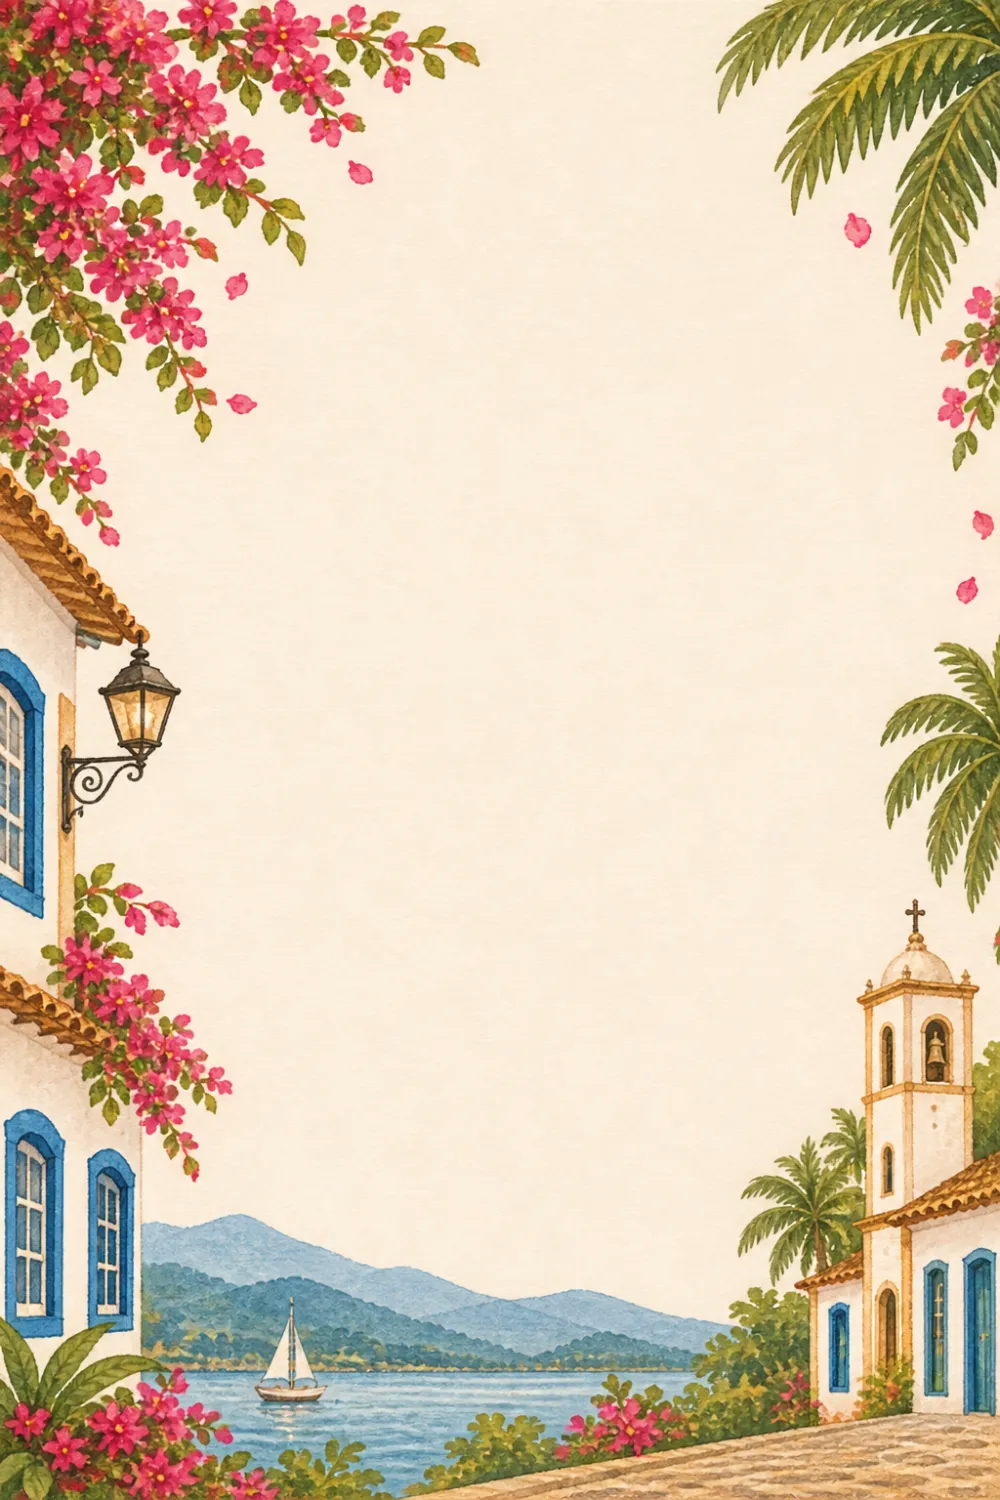
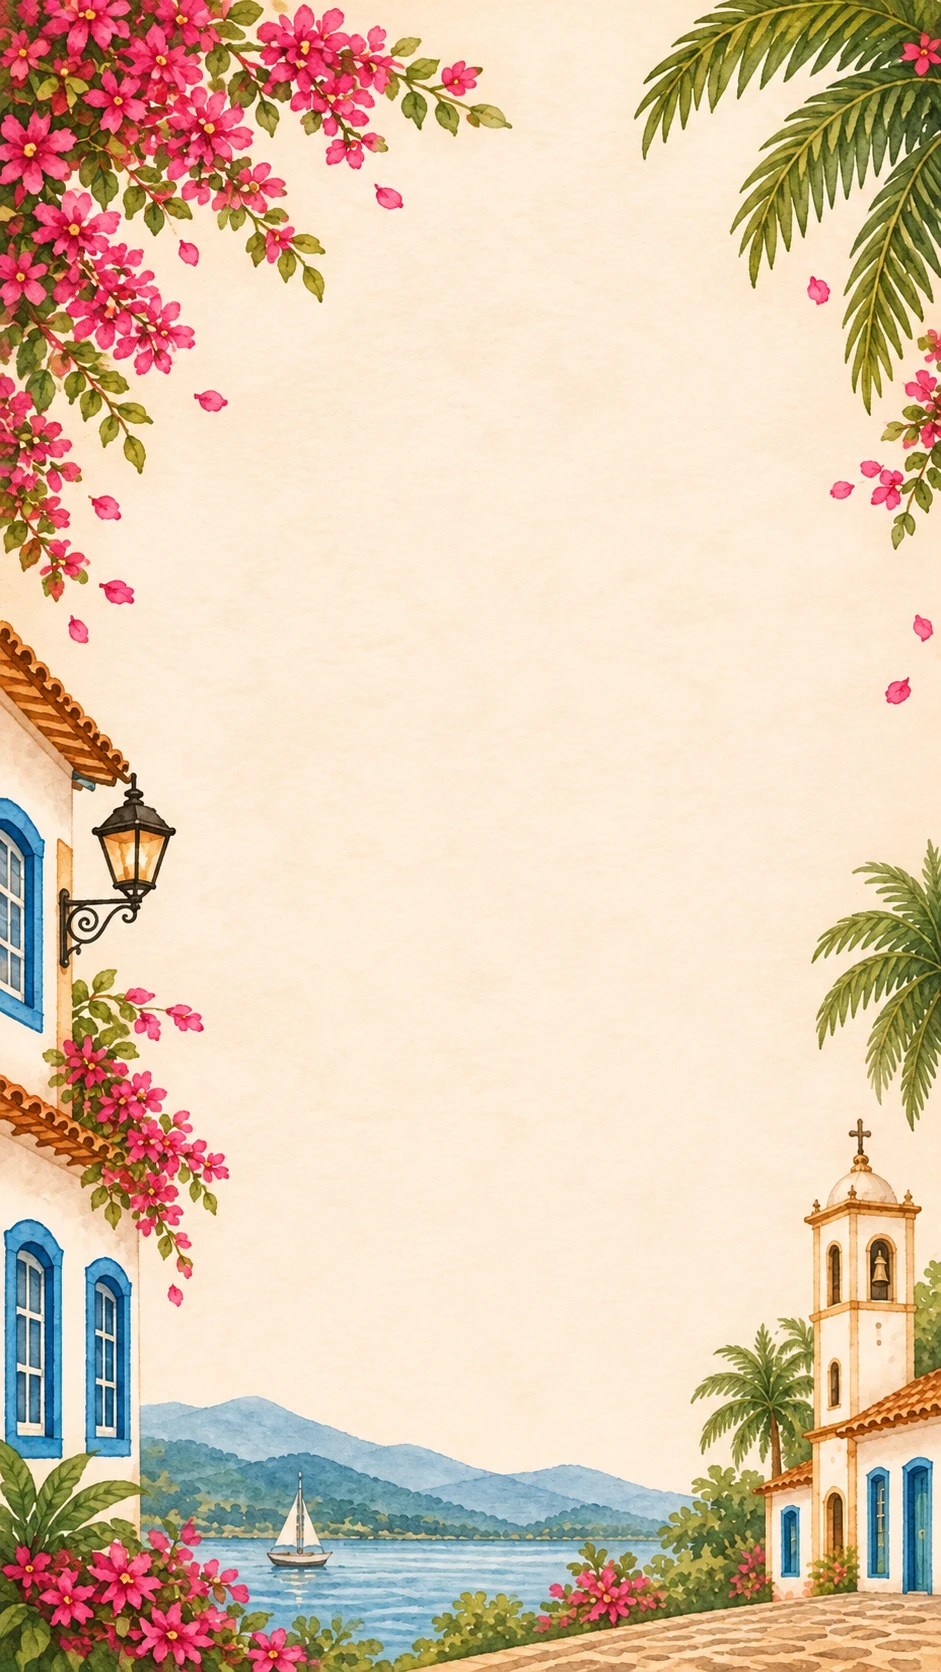
Moldura vertical em tela cheia e porta centralizada na entrada
A capa usa a moldura no formato de celular e cobre a tela (100dvh, como
object-fit: cover). Na entrada, o centro da porta fica no meio da tela; o
chão continua para baixo com as pedras da própria arte.

diff --git a/index.html b/index.html
@@ -94,7 +94,7 @@ h2::after{content:"";display:block;width:36px;height:3px;background:var(--ocre);
   --W:min(var(--vw) * 1.5396, var(--vh) * 1.7768);           /* largura da arte na tela */
   --H:calc(var(--W) / 1.7768);
   --x0:calc(var(--vw) / 2 - var(--W) * .5042);
-  --y0:calc(var(--vh) - var(--H) - min(var(--H) * .06, (var(--vh) - var(--H)) * .5)); /* sobra em cima vira parede; embaixo, no máximo uma faixa de chão */
+  --y0:calc(var(--vh) / 2 - var(--H) * .5229);           /* o centro da porta (52.29% da altura da arte) fica no meio da tela */
   --dl:calc(var(--x0) + var(--W) * .4270);
   --dt:calc(var(--y0) + var(--H) * .2062);
   --dw:calc(var(--W) * .1543);
@@ -118,11 +118,10 @@ h2::after{content:"";display:block;width:36px;height:3px;background:var(--ocre);
 .cena img{position:absolute;left:0;top:0;width:100%;height:100%;display:block}
 .cena .arte{-webkit-mask:linear-gradient(transparent,#000 4.5%);mask:linear-gradient(transparent,#000 4.5%)} /* topo se funde na parede lisa */
 /* chão continua para baixo (cópia espelhada, só a faixa do chão) */
-.cena .chao1{top:100%;transform:scaleY(-1)}
+.chao-ext{position:absolute;left:-100%;width:300%;top:100%;height:200vh;background:linear-gradient(rgba(240,188,122,0),rgba(240,188,122,.55) 45vh),url(arte/chao.webp) var(--W) 0/calc(var(--W) * .5024) auto} /* mais longe da porta, as pedras vão se dissolvendo */ /* chao.webp: as últimas linhas de pedra da arte, espelhadas para repetir sem emenda */
 /* telas muito largas: a arte continua para os lados espelhada; longe da emenda só o chão continua */
 .cena .esq1{left:-100%;transform:scaleX(-1)}
 .cena .dir1{left:100%;transform:scaleX(-1)}
-.chao1{-webkit-mask:linear-gradient(transparent 94%,#000 94.3%);mask:linear-gradient(transparent 94%,#000 94.3%)} /* só as últimas linhas: sem pé do vaso nem rabo do gato */
 .esq1{-webkit-mask:linear-gradient(to right,#000 14%,transparent 17%);mask:linear-gradient(to right,#000 14%,transparent 17%)}
 .dir1{-webkit-mask:linear-gradient(to left,#000 20%,transparent 24%);mask:linear-gradient(to left,#000 20%,transparent 24%)}
 .luz-chao{position:absolute;inset:0;clip-path:polygon(43% 84%,58% 84%,67% 100%,34% 100%);background:linear-gradient(rgba(255,228,160,.9),rgba(255,228,160,0) 90%);mix-blend-mode:screen;opacity:0;transition:opacity 1.3s .35s ease-out}
@@ -152,28 +151,28 @@ h2::after{content:"";display:block;width:36px;height:3px;background:var(--ocre);
 .placa::before{left:.42em}
 .placa::after{right:.42em}
 @media (orientation:portrait){
-  .placa{top:calc(var(--y0) * .72);font-size:clamp(18px,5.6vw,30px)}
+  .placa{top:calc(var(--y0) * .55);font-size:clamp(18px,5.6vw,30px)}
 }
 body.travado main{transform:translateY(var(--desloc,0px)) scale(1.12);transform-origin:50% var(--origem,55vh)} /* os nomes da capa ficam bem no vão da porta */
 body.travado.entrando main{transform:none;transition:transform 1.6s cubic-bezier(.6,0,.3,1)}
 
 /* ---------- capa: a moldura ---------- */
-/* Arte: arte/moldura.webp (1000x1500). Área livre no meio: x 24–86%, y 20–76%.
+/* Arte: arte/moldura.webp (941x1672, formato de celular). Área livre no meio: x 21–85%, y 18–82%.
    Galhos que balançam (posição e tamanho em % da arte): buganvília de cima à esquerda, palmeira de cima, palmeira do meio à direita.
    A arte de fundo tem um "buraco" suave onde fica cada galho, e o galho é uma cópia por cima que gira de leve. */
-.capa{--galhoA:radial-gradient(ellipse 33% 20% at 22% 8%,#000 55%,transparent);
-  --galhoB:radial-gradient(ellipse 30% 17% at 88% 9%,#000 55%,transparent);
-  --galhoC:radial-gradient(ellipse 14% 11% at 95% 51%,#000 55%,transparent);
-  position:relative;aspect-ratio:2/3;overflow:hidden;container-type:inline-size;background:#F7ECD9}
-.quadro{position:absolute;left:0;right:0;bottom:0;aspect-ratio:2/3}
-.quadro.reflexo{bottom:150cqw;transform:scaleY(-1)} /* cópia de cabeça para baixo logo acima: buganvília e palmeira continuam, e balançam juntas */
-@media (max-width:600px){.capa{aspect-ratio:auto;height:max(150vw,100vh);height:max(150vw,100svh)}} /* celular: a moldura ocupa a tela toda */
+.capa{--galhoA:radial-gradient(ellipse 35% 20% at 21% 12%,#000 55%,transparent);
+  --galhoB:radial-gradient(ellipse 32% 16% at 87% 11%,#000 55%,transparent);
+  --galhoC:radial-gradient(ellipse 15% 10% at 96% 59%,#000 55%,transparent);
+  position:relative;aspect-ratio:941/1672;overflow:hidden;container-type:inline-size;background:#F7ECD9}
+/* o quadro cobre a capa inteira (como object-fit: cover), sem distorcer; no celular a capa tem a altura da tela */
+.quadro{position:absolute;left:50%;top:50%;translate:-50% -50%;min-width:100%;min-height:100%;aspect-ratio:941/1672}
+@media (max-width:600px){.capa{aspect-ratio:auto;height:100vh;height:100dvh}}
 .camada{position:absolute;inset:0;background:url(arte/moldura.webp) 0 0/100% 100%}
 .camada.fundo{-webkit-mask:linear-gradient(#000 0 0),var(--galhoA),var(--galhoB),var(--galhoC);-webkit-mask-composite:source-out,source-over,source-over;
   mask:linear-gradient(#000 0 0),var(--galhoA),var(--galhoB),var(--galhoC);mask-composite:subtract,add,add}
 .galhoA{-webkit-mask:var(--galhoA);mask:var(--galhoA);transform-origin:0 0;--giro:.9deg;animation:balanco 6s ease-in-out infinite alternate}
 .galhoB{-webkit-mask:var(--galhoB);mask:var(--galhoB);transform-origin:100% 0;--giro:-1.1deg;animation:balanco 7s ease-in-out -2s infinite alternate}
-.galhoC{-webkit-mask:var(--galhoC);mask:var(--galhoC);transform-origin:100% 51%;--giro:2deg;animation:balanco 4.5s ease-in-out -1s infinite alternate}
+.galhoC{-webkit-mask:var(--galhoC);mask:var(--galhoC);transform-origin:100% 59%;--giro:2deg;animation:balanco 4.5s ease-in-out -1s infinite alternate}
 /* as animações da capa só começam depois de entrar pela porta (senão a porta abre travando) */
 body.travado :is(.camada,.petala){animation-play-state:paused}
 .galhoA,.galhoB,.galhoC{will-change:transform}
@@ -188,7 +187,7 @@ body.travado :is(.camada,.petala){animation-play-state:paused}
   92%{opacity:.9}
   100%{opacity:0;transform:translate(var(--dx),155cqw) rotate(450deg)}
 }
-.capa-texto{position:absolute;left:52%;top:22%;width:56%;transform:translateX(-50%);text-align:center;color:var(--tinta)}
+.capa-texto{position:absolute;left:52%;top:25%;width:56%;transform:translateX(-50%);text-align:center;color:var(--tinta)}
 .capa-texto h1{font-weight:400;line-height:.95}
 .capa-texto .nome{display:block;font-size:12.5cqw;color:var(--azul)}
 .capa-texto .e{display:block;font-size:6.5cqw;line-height:1.5;color:#C8416E}
@@ -278,7 +277,7 @@ footer .faixa{height:64px;margin-top:30px}
   <div class="zoom">
     <div class="parede">
       <div class="cena">
-        <img class="chao1" src="arte/porta-larga.webp" alt="">
+        <div class="chao-ext"></div>
         <img class="esq1" src="arte/porta-larga.webp" alt="">
         <img class="dir1" src="arte/porta-larga.webp" alt="">
         <img class="arte" src="arte/porta-larga.webp" alt="">
@@ -296,12 +295,6 @@ footer .faixa{height:64px;margin-top:30px}
 
 <main id="conteudo">
   <header class="capa">
-    <div class="quadro reflexo" aria-hidden="true">
-    <div class="camada fundo" aria-hidden="true"></div>
-    <div class="camada galhoA" aria-hidden="true"></div>
-    <div class="camada galhoB" aria-hidden="true"></div>
-    <div class="camada galhoC" aria-hidden="true"></div>
-    </div>
     <div class="quadro">
     <div class="camada fundo"></div>
     <div class="camada galhoA" aria-hidden="true"></div>
@@ -575,8 +568,10 @@ const medirEntrada = () => {
   e.style.setProperty("--vh", e.clientHeight + "px");
   // alinha o centro dos nomes (sem transformação) com o centro da porta
   const p = $("porta").getBoundingClientRect(), t = document.querySelector(".capa-texto");
-  let centroNomes = t.offsetHeight * .3;
-  for (let el = t; el; el = el.offsetParent) centroNomes += el.offsetTop;
+  const capa = document.querySelector(".capa"), rc = capa.getBoundingClientRect(), rt = t.getBoundingClientRect();
+  const escala = rc.width / capa.offsetWidth; // o convite atrás da porta está ampliado
+  let centroNomes = (rt.top - rc.top + rt.height * .3) / escala;
+  for (let el = capa; el; el = el.offsetParent) centroNomes += el.offsetTop;
   document.body.style.setProperty("--origem", centroNomes + "px");
   const desloc = p.top + p.height / 2 - centroNomes;
   document.body.style.setProperty("--desloc", desloc + "px");
